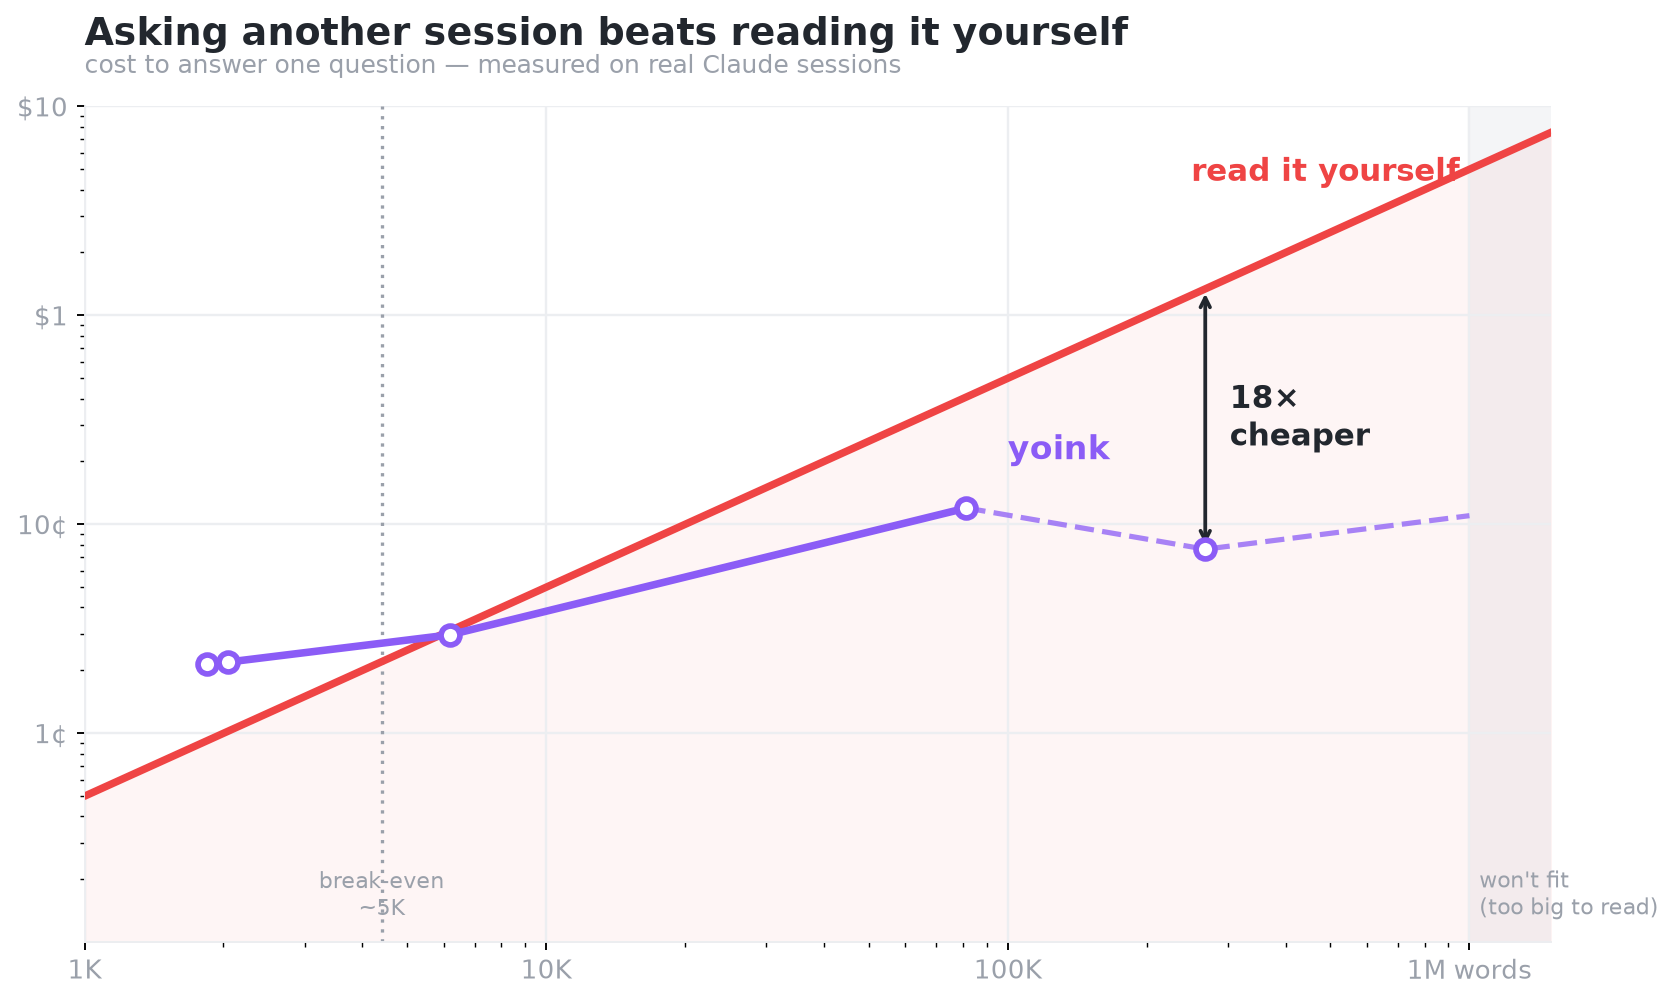
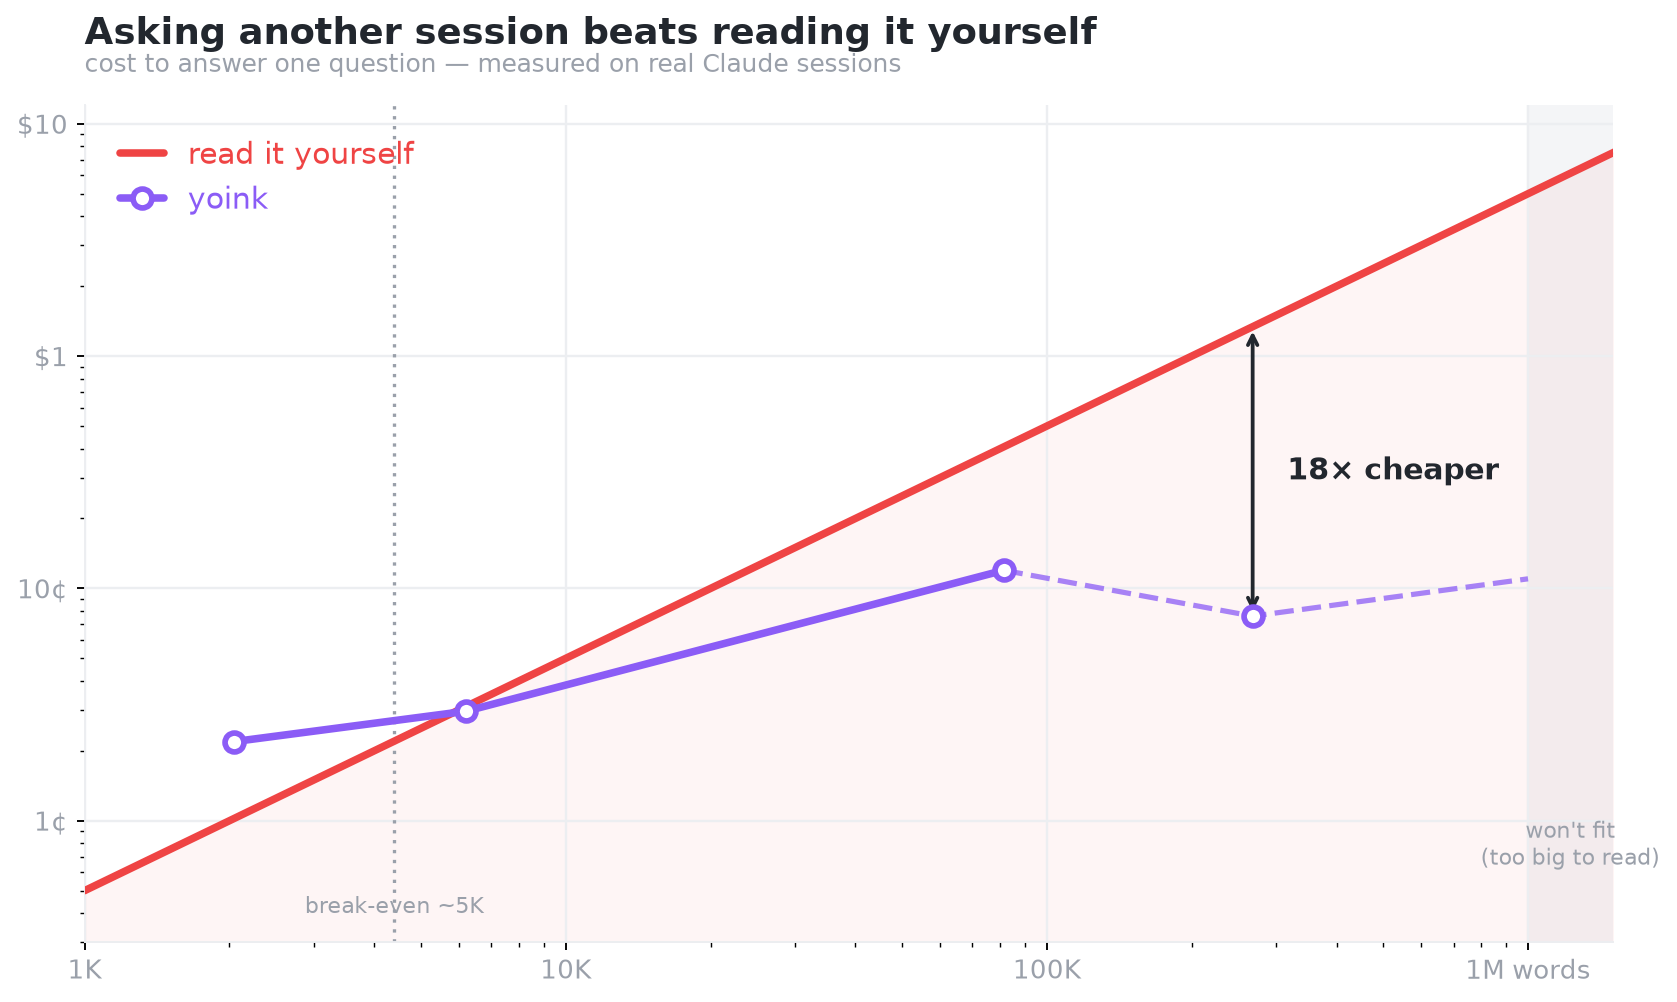
docs: fix cost-graph overlaps — frameless legend, clear label spacing

diff --git a/benchmark/plot_cost.py b/benchmark/plot_cost.py
@@ -19,8 +19,8 @@ OPUS_IN = 5.0 / 1e6  # $/token, Opus input
 CTX = 1_000_000      # usable context; beyond this "read it yourself" overflows
 
 # measured yoink (Haiku) recalls on real sessions
-yx = [1845, 2041, 6197, 81351]
-yy = [0.0214, 0.0219, 0.0296, 0.1197]
+yx = [2041, 6197, 81351]
+yy = [0.0219, 0.0296, 0.1197]
 y_tail = [(81351, 0.1197), (267718, 0.076), (1_000_000, 0.11)]  # cache keeps it low at scale
 
 sizes = np.logspace(3, 6.18, 240)
@@ -30,38 +30,42 @@ plt.rcParams.update({"font.family": "DejaVu Sans", "axes.edgecolor": GRID, "figu
 fig, ax = plt.subplots(figsize=(10, 6))
 fig.patch.set_facecolor("white")
 ax.set_facecolor("white")
-
-# overflow zone
-ax.axvspan(CTX, sizes[-1], color="#F4F5F7", zorder=0)
-ax.text(CTX * 1.05, 1.25e-3, "won't fit\n(too big to read)", fontsize=9.5, color=MUTE, va="bottom")
-
-# the two curves
-ax.fill_between(sizes, native, 1e-3, color=RED, alpha=0.05, zorder=1)
-ax.plot(sizes, native, color=RED, lw=3.2, zorder=3, solid_capstyle="round")
-ax.plot(yx, yy, color=PURPLE, lw=3.2, marker="o", ms=8, mfc="white", mec=PURPLE, mew=2.4,
-        zorder=4, solid_capstyle="round")
-ax.plot([p[0] for p in y_tail], [p[1] for p in y_tail], "--", color=PURPLE, lw=2.2, alpha=0.75, zorder=3)
-ax.plot(267718, 0.076, "o", ms=8, mfc="white", mec=PURPLE, mew=2.4, zorder=4)
-
-# inline labels (no legend box)
-ax.text(9.5e5, 4.4, "read it yourself", color=RED, fontsize=13, fontweight="bold", ha="right")
-ax.text(1.0e5, 0.205, "yoink", color=PURPLE, fontsize=14, fontweight="bold")
-
-# break-even
-be = 0.022 / OPUS_IN
-ax.axvline(be, color=MUTE, ls=(0, (1, 2)), lw=1.4, zorder=2)
-ax.text(be, 1.35e-3, "break-even\n~5K", fontsize=9.5, color=MUTE, ha="center")
-
-# the headline gap
-gx = 267718
-ax.annotate("", xy=(gx, gx * OPUS_IN), xytext=(gx, 0.076),
-            arrowprops=dict(arrowstyle="<->", color=INK, lw=1.6))
-ax.text(gx * 1.13, 0.32, "18×\ncheaper", fontsize=13, color=INK, fontweight="bold", va="center")
-
 ax.set_xscale("log")
 ax.set_yscale("log")
 ax.set_xlim(1e3, 1.5e6)
-ax.set_ylim(1e-3, 1e1)
+ax.set_ylim(3e-3, 1.2e1)
+
+# overflow zone
+ax.axvspan(CTX, 1.5e6, color="#F4F5F7", zorder=0)
+ax.text(np.sqrt(CTX * 1.5e6), 6e-3, "won't fit\n(too big to read)", fontsize=9.5, color=MUTE,
+        ha="center", va="bottom")
+
+# the two curves
+ax.fill_between(sizes, native, 3e-3, color=RED, alpha=0.05, zorder=1)
+ax.plot(sizes, native, color=RED, lw=3.2, zorder=3, solid_capstyle="round", label="read it yourself")
+ax.plot(yx, yy, color=PURPLE, lw=3.2, marker="o", ms=8, mfc="white", mec=PURPLE, mew=2.4,
+        zorder=4, solid_capstyle="round", label="yoink")
+ax.plot([p[0] for p in y_tail], [p[1] for p in y_tail], "--", color=PURPLE, lw=2.2, alpha=0.75, zorder=3)
+ax.plot(267718, 0.076, "o", ms=8, mfc="white", mec=PURPLE, mew=2.4, zorder=4)
+
+# break-even (lines cross here)
+be = 0.022 / OPUS_IN
+ax.axvline(be, color=MUTE, ls=(0, (1, 2)), lw=1.4, zorder=2)
+ax.text(be, 3.8e-3, "break-even ~5K", fontsize=9.5, color=MUTE, ha="center", va="bottom")
+
+# the headline gap (well clear of both lines and the legend)
+gx = 267718
+ax.annotate("", xy=(gx, gx * OPUS_IN), xytext=(gx, 0.076),
+            arrowprops=dict(arrowstyle="<->", color=INK, lw=1.6))
+ax.text(gx * 1.18, np.sqrt(gx * OPUS_IN * 0.076), "18× cheaper", fontsize=12.5, color=INK,
+        fontweight="bold", va="center")
+
+# clean frameless legend in the open top-left
+leg = ax.legend(loc="upper left", frameon=False, fontsize=12.5, handlelength=1.5,
+                borderaxespad=0.8, labelcolor=[RED, PURPLE])
+for line in leg.get_lines():
+    line.set_linewidth(3.2)
+
 ax.set_xticks([1e3, 1e4, 1e5, 1e6])
 ax.set_xticklabels(["1K", "10K", "100K", "1M words"], fontsize=11, color=MUTE)
 ax.set_yticks([0.01, 0.1, 1, 10])
@@ -70,7 +74,7 @@ ax.grid(True, which="major", color=GRID, lw=1)
 for spine in ("top", "right"):
     ax.spines[spine].set_visible(False)
 
-ax.set_title("Asking another session beats reading it yourself", fontsize=16, fontweight="bold",
+ax.set_title("Asking another session beats reading it yourself", fontsize=15.5, fontweight="bold",
              color=INK, loc="left", pad=26)
 ax.text(0, 1.04, "cost to answer one question — measured on real Claude sessions",
         transform=ax.transAxes, fontsize=10.5, color=MUTE)